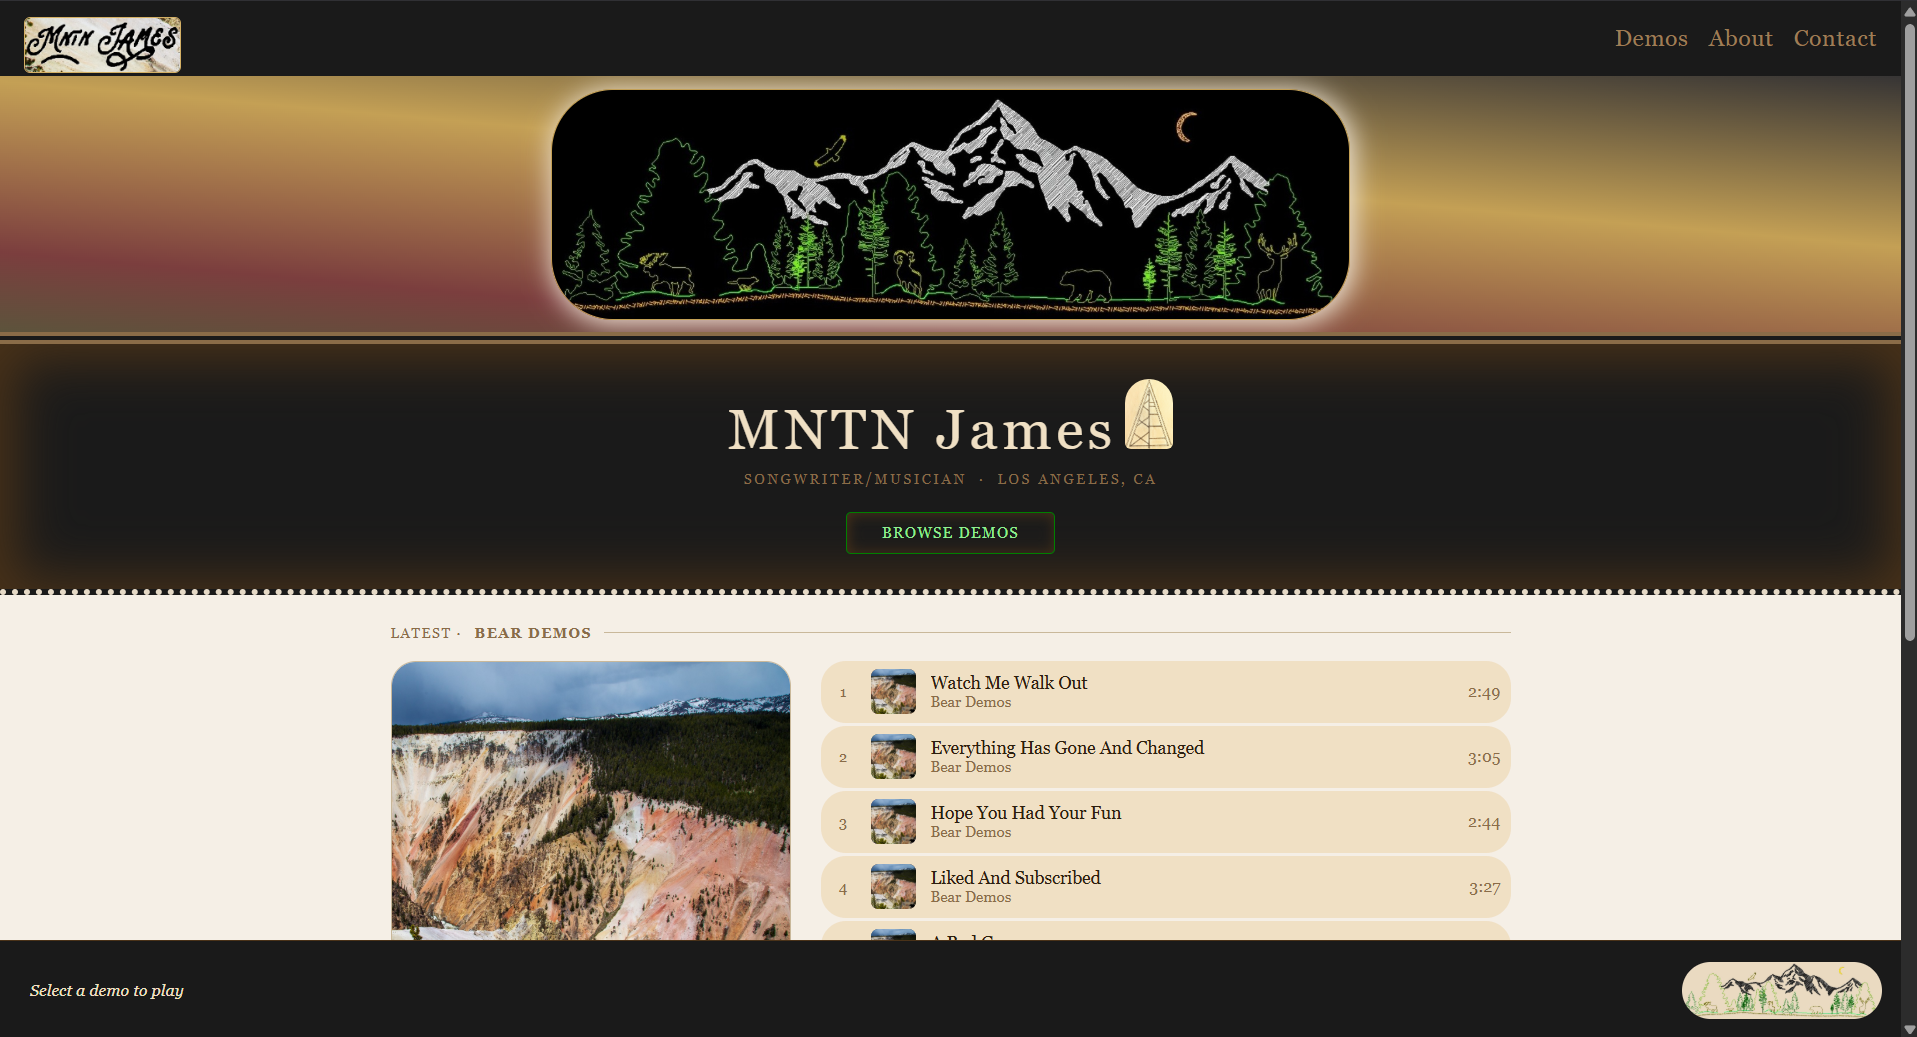
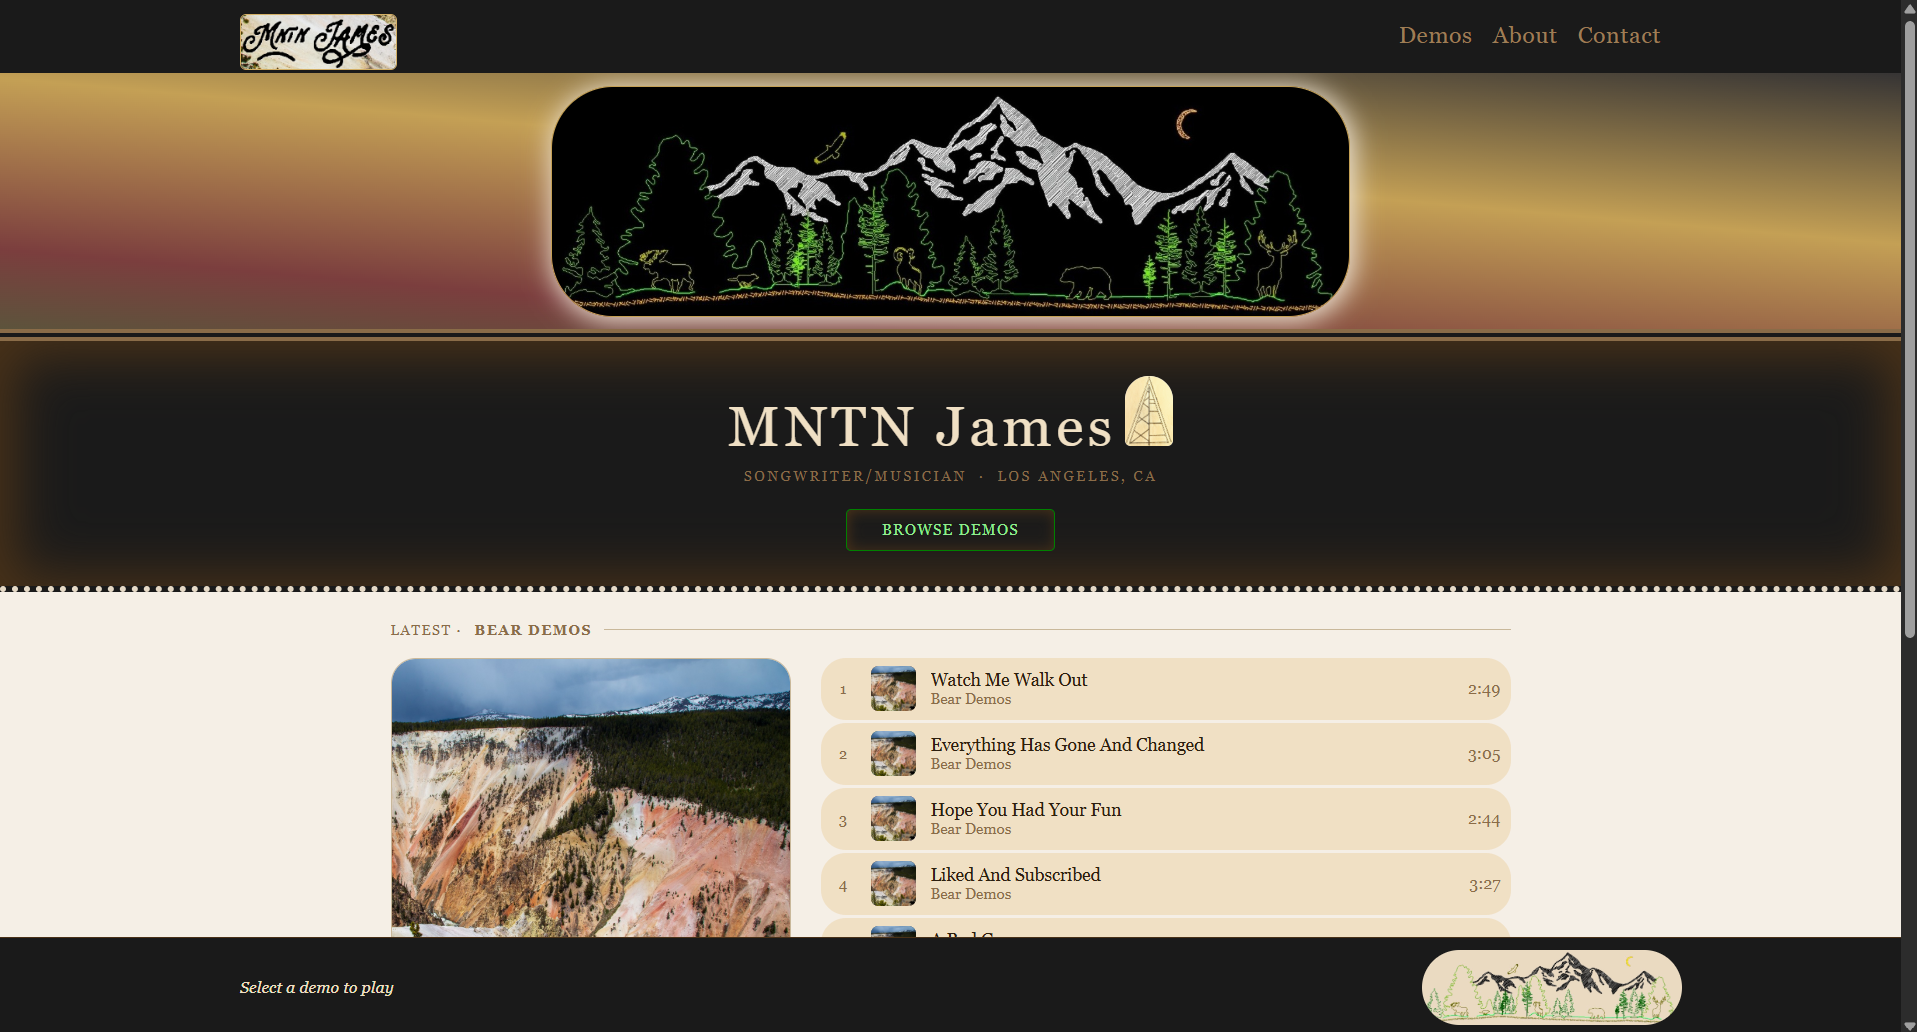
Added cheapmachines project card; styling

diff --git a/src/data/projects.js b/src/data/projects.js
@@ -3,6 +3,8 @@ const projects = [
     id: 1,
     title: "JT's Vinyl Store",
     image: "/projects/jts-vinyl-store.png",
+    backendNote:
+      "***The backend may take a few seconds to wake up after periods of inactivity.",
     description:
       "A full-stack e-commerce application for browsing vinyl records, managing a shopping cart, and completing purchases through Stripe.",
     technologies: [
@@ -41,6 +43,8 @@ const projects = [
     id: 3,
     title: "Zen Zinnati Music",
     image: "/projects/zen-zinnati-music.png",
+    backendNote:
+      "***The backend may take a few seconds to wake up after periods of inactivity.",
     description:
       "A responsive music application for exploring albums and tracks, with persistent audio playback and album detail pages.",
     technologies: [
@@ -62,6 +66,8 @@ const projects = [
     title: "Which Beatle Said It?",
     image: "/projects/which-beatle-said-it.png",
     imageType: "mobile",
+    backendNote:
+      "***The backend may take a few seconds to wake up after periods of inactivity.",
     description:
       "An interactive React application that challenges users to identify which member of The Beatles said a particular quote.",
     technologies: [
@@ -78,9 +84,25 @@ const projects = [
 
   {
     id: 5,
-    title: "MNTN James",
+    title: "Cheap Machines Music",
+    image: "/projects/cheapmachines-music.png",
+    description:
+      "A responsive music website built for a local band to showcase their music, releases, shows, and other information.",
+    technologies: [
+      "React",
+      "JavaScript",
+      "CSS",
+      "Vercel",
+      "Resend",
+    ],
+    liveUrl: "https://cheapmachines-music.vercel.app/",
+    githubUrl: "https://github.com/topmiljm/cheapmachines-music",
+  },
+
+  {
+    id: 6,
+    title: "MNTN James Music",
     image: "/projects/mntn-james-music.png",
-    // imageType: "mobile",
     description:
       "A responsive personal music website showcasing original music, projects, and creative work.",
     technologies: [
@@ -89,6 +111,7 @@ const projects = [
       "CSS",
       "Vercel",
       "Cloudinary",
+      "Resend",
     ],
     liveUrl: "https://mntnjames-music.vercel.app/",
     githubUrl: "https://github.com/topmiljm/mntnjames-music",

diff --git a/src/components/Projects/Projects.jsx b/src/components/Projects/Projects.jsx
@@ -51,13 +51,19 @@ function Projects() {
                                     ))}
                                 </ul>
 
+                                {project.backendNote && (
+                                    <p className="project-card__note">
+                                        {project.backendNote}
+                                    </p>
+                                )}
+
                                 <div className="project-card__links">
                                     <a
                                         href={project.liveUrl}
                                         target="_blank"
                                         rel="noreferrer"
                                     >
-                                        Live•Site → 
+                                        Live•Site →
                                     </a>
 
                                     <a
@@ -65,7 +71,7 @@ function Projects() {
                                         target="_blank"
                                         rel="noreferrer"
                                     >
-                                        GitHub → 
+                                        GitHub →
                                     </a>
                                 </div>
                             </div>

diff --git a/src/components/Projects/Projects.css b/src/components/Projects/Projects.css
@@ -79,29 +79,6 @@
     transform: scale(1.03);
 }
 
-.project-card__image-wrapper {
-    width: 100%;
-    aspect-ratio: 16 / 9;
-    overflow: hidden;
-
-    border-bottom: 1px solid var(--color-border);
-}
-
-.project-card__image {
-    display: block;
-
-    width: 100%;
-    height: 100%;
-
-    object-fit: cover;
-
-    transition: transform var(--transition);
-}
-
-.project-card:hover .project-card__image {
-    transform: scale(1.03);
-}
-
 .project-card__image-wrapper--mobile {
     display: flex;
     justify-content: center;
@@ -150,6 +127,14 @@
 
     color: var(--color-text-secondary);
     font-size: var(--fs-300);
+}
+
+.project-card__note {
+    margin-bottom: var(--space-5);
+
+    color: var(--color-text-secondary);
+    font-size: var(--fs-300);
+    line-height: 1.5;
 }
 
 .project-card__links {
